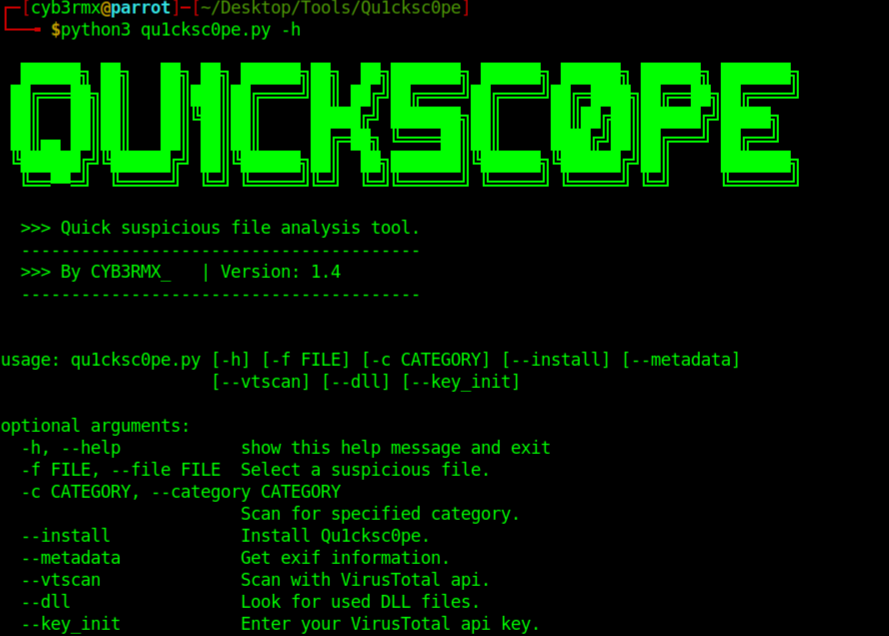
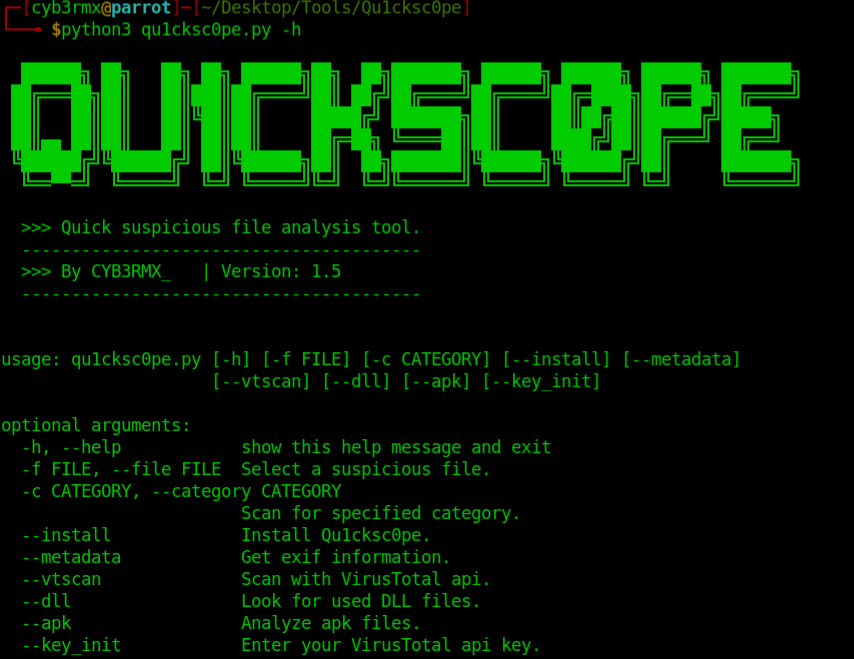
News 04/02/2020 03:49

diff --git a/qu1cksc0pe.py b/qu1cksc0pe.py
@@ -17,7 +17,7 @@ banner='''
                                                                                
   >>> Quick suspicious file analysis tool.
   ----------------------------------------
-  >>> By CYB3RMX_   | Version: 1.4
+  >>> By CYB3RMX_   | Version: 1.5
   ----------------------------------------
 
 '''
@@ -45,6 +45,7 @@ def scope():
    parser.add_argument("--metadata",required=False,help="Get exif information.",action="store_true")
    parser.add_argument("--vtscan",required=False,help="Scan with VirusTotal api.",action="store_true")
    parser.add_argument("--dll",required=False,help="Look for used DLL files.",action="store_true")
+   parser.add_argument("--apk",required=False,help="Analyze apk files.",action="store_true")
    parser.add_argument("--key_init",required=False,help="Enter your VirusTotal api key.",action="store_true")
    args = parser.parse_args()
 
@@ -81,6 +82,9 @@ def scope():
            command = "python3 VTwrapper.py {} {}".format(apik[0], args.file)
            os.system(command)
            print("+","-"*50,"+")
+   if args.apk:
+       command = "bash apkAnalyzer.sh {}".format(args.file)
+       os.system(command) 
    if args.key_init:
        apikey = str(input("{}[{}+{}]{} Enter your VirusTotal api key: ".format(cyan,red,cyan,white)))
        command = "echo '{}' > .apikey.txt".format(apikey)
